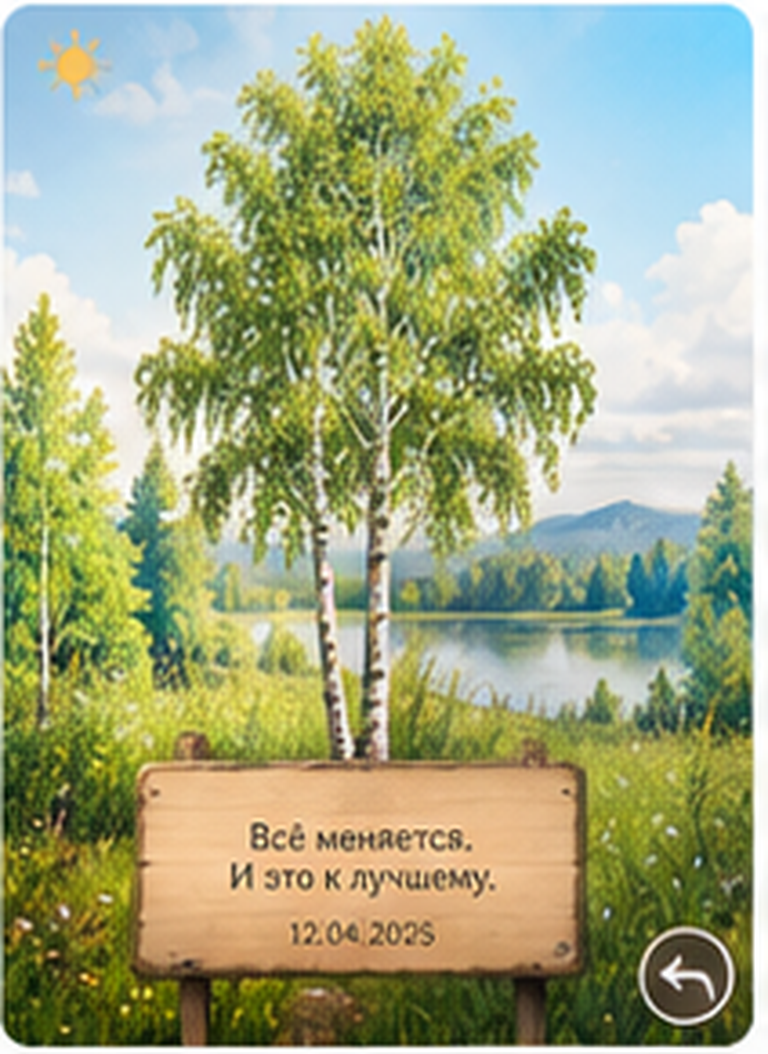
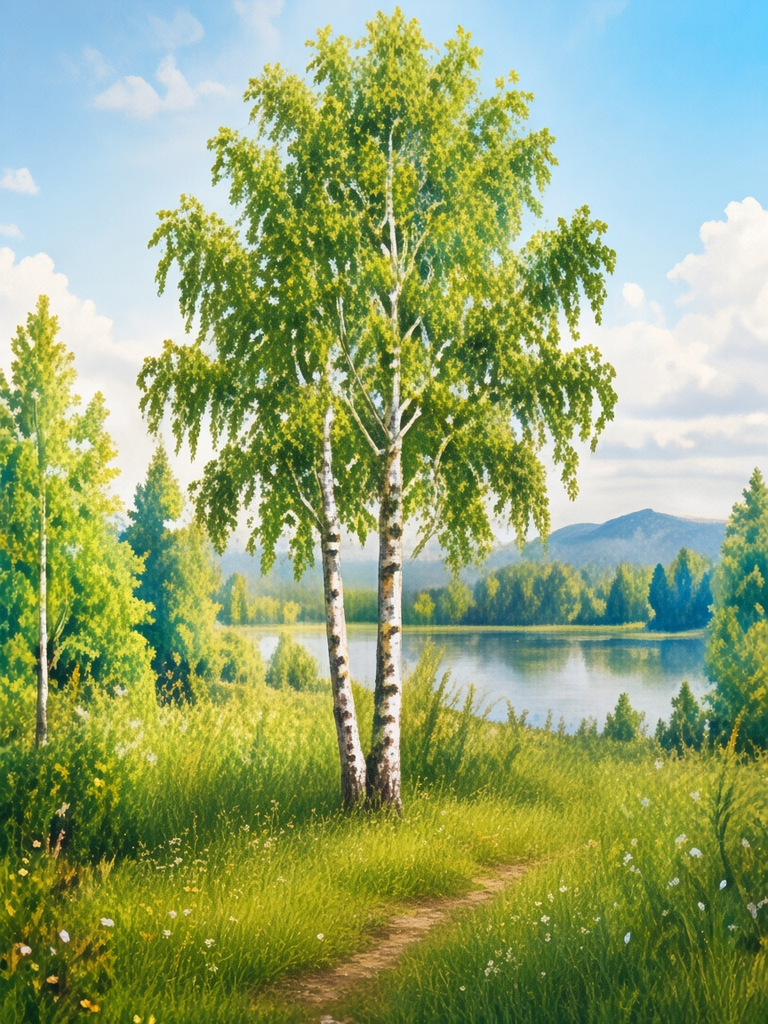
fix: replace cropped cards with full-bleed tree scenes
24 day/night landscapes without plaque, crop borders, or a second moon. Entry text sits under the image.

diff --git a/src/components/forest/TreeGroveScene.tsx b/src/components/forest/TreeGroveScene.tsx
@@ -3,14 +3,14 @@ import { LayoutChangeEvent, Pressable, StyleSheet, View, useWindowDimensions } f
 import { Ionicons } from "@expo/vector-icons";
 import { SafeAreaView, useSafeAreaInsets } from "react-native-safe-area-context";
 import { FadeView, ScaleView } from "../animation";
-import { WoodenPlaque } from "./WoodenPlaque";
+import { Text } from "../ui";
 import { ForestSceneBackdrop } from "./ForestSceneBackdrop";
 import { CatalogItem } from "../../services/forest/catalog";
-import { fitStaticBackground } from "../../services/forest/backgroundFit";
 import { getGroveEdges, getGroveScene } from "../../constants/groveScenes";
 import { getTreeDefinition } from "../../constants/treeDefinitions";
 import { resolveSceneMode } from "../../constants/sceneMode";
 import { SceneMode } from "../../types";
+import { parseDateKey } from "../../utils/date";
 import { useTheme } from "../../theme";
 
 type Props = {
@@ -19,9 +19,12 @@ type Props = {
   sceneMode?: SceneMode | null;
 };
 
+function formatDetailDate(dateKey: string, time: string): string {
+  return `${parseDateKey(dateKey).toLocaleDateString("ru-RU")}  ${time}`;
+}
+
 /**
- * Большая сцена с референса. Меняется только текст на дощечке.
- * Назад справа снизу — настоящая кнопка.
+ * Большая сцена без дощечки. Текст записи — мягкая подпись снизу.
  */
 export function TreeGroveScene({ item, onClose, sceneMode: sceneModeOverride }: Props) {
   const theme = useTheme();
@@ -36,11 +39,9 @@ export function TreeGroveScene({ item, onClose, sceneMode: sceneModeOverride }: 
   const tree = getTreeDefinition(item.tree.species);
   const sceneSource = getGroveScene(item.tree.species, mode);
   const edges = getGroveEdges(item.tree.species, mode);
-  const sceneFrame = fitStaticBackground(1000, 1000 / tree.sceneAspect, width, height);
-  const plaqueWidth = Math.round(sceneFrame.width * 0.68);
-  const plaqueHeight = Math.round(sceneFrame.height * 0.2);
-  const plaqueLeft = Math.round(sceneFrame.left + (sceneFrame.width - plaqueWidth) / 2);
-  const plaqueTop = Math.round(sceneFrame.top + sceneFrame.height * 0.705);
+  const note = item.entry.note.trim() || item.entry.smallWin?.trim() || "Без текста";
+  const ink = isNight ? "#F3EDE2" : "#2C2A24";
+  const muted = isNight ? "#D4CBB8" : "#5A564C";
 
   useEffect(() => {
     setShown(true);
@@ -65,22 +66,40 @@ export function TreeGroveScene({ item, onClose, sceneMode: sceneModeOverride }: 
         height={height}
         aspect={tree.sceneAspect}
       />
+      <View
+        pointerEvents="none"
+        style={[
+          styles.fade,
+          { backgroundColor: isNight ? "rgba(8,12,20,0.42)" : "rgba(245,240,230,0.28)" },
+        ]}
+      />
 
       <SafeAreaView edges={["top", "left", "right"]} style={styles.fill} pointerEvents="box-none">
         <FadeView visible={shown} duration="base" style={styles.fill} pointerEvents="box-none">
-          <ScaleView visible={shown} from={0.98} duration="base" style={styles.fill} pointerEvents="box-none">
-            <View
-              pointerEvents="none"
+          <ScaleView visible={shown} from={0.98} duration="base" style={styles.stage} pointerEvents="box-none">
+            <Text
+              face="serif"
               style={{
-                position: "absolute",
-                left: plaqueLeft,
-                top: plaqueTop,
-                width: plaqueWidth,
-                height: plaqueHeight,
+                color: ink,
+                fontSize: theme.typography.sizes.subtitle,
+                lineHeight: 26,
+                textAlign: "center",
               }}
+              maxFontSizeMultiplier={theme.typography.scaleLimits.content}
             >
-              <WoodenPlaque item={item} sceneMode={mode} maxHeight={plaqueHeight} width={plaqueWidth} />
-            </View>
+              {note}
+            </Text>
+            <Text
+              style={{
+                marginTop: 8,
+                color: muted,
+                fontSize: theme.typography.sizes.caption,
+                textAlign: "center",
+              }}
+              maxFontSizeMultiplier={theme.typography.scaleLimits.ui}
+            >
+              {formatDetailDate(item.entry.date, item.entry.time)}
+            </Text>
           </ScaleView>
         </FadeView>
       </SafeAreaView>
@@ -108,6 +127,19 @@ export function TreeGroveScene({ item, onClose, sceneMode: sceneModeOverride }: 
 
 const styles = StyleSheet.create({
   fill: { flex: 1 },
+  fade: {
+    position: "absolute",
+    left: 0,
+    right: 0,
+    bottom: 0,
+    height: "28%",
+  },
+  stage: {
+    flex: 1,
+    justifyContent: "flex-end",
+    paddingHorizontal: 28,
+    paddingBottom: 96,
+  },
   backBtn: {
     position: "absolute",
     zIndex: 30,

diff --git a/src/components/forest/TreeCatalogCard.tsx b/src/components/forest/TreeCatalogCard.tsx
@@ -1,11 +1,12 @@
 import React from "react";
 import { Pressable, StyleSheet, View, useWindowDimensions } from "react-native";
-import { WoodenPlaque } from "./WoodenPlaque";
+import { Text } from "../ui";
 import { ForestSceneBackdrop } from "./ForestSceneBackdrop";
 import { CatalogItem } from "../../services/forest/catalog";
 import { getGroveEdges, getGroveScene } from "../../constants/groveScenes";
 import { getTreeDefinition } from "../../constants/treeDefinitions";
 import { SceneMode } from "../../types";
+import { parseDateKey } from "../../utils/date";
 import { useTheme } from "../../theme";
 
 type Props = {
@@ -14,8 +15,12 @@ type Props = {
   onPress: () => void;
 };
 
+function cardDate(dateKey: string): string {
+  return parseDateKey(dateKey).toLocaleDateString("ru-RU");
+}
+
 /**
- * Карточка = картина с референса. Меняется только текст на дощечке.
+ * Карточка — полнокадровая сцена. Текст записи под картиной, без дощечки.
  */
 export function TreeCatalogCard({ item, sceneMode, onPress }: Props) {
   const theme = useTheme();
@@ -24,12 +29,10 @@ export function TreeCatalogCard({ item, sceneMode, onPress }: Props) {
   const scene = getGroveScene(item.tree.species, sceneMode);
   const edges = getGroveEdges(item.tree.species, sceneMode);
   const cardWidth = Math.max(220, window.width - theme.spacing("lg") * 2);
-  const cardHeight = Math.min(
+  const imageHeight = Math.min(
     Math.round(cardWidth / tree.sceneAspect),
-    Math.round(window.height * 0.64),
+    Math.round(window.height * 0.58),
   );
-  const plaqueWidth = Math.round(cardWidth * 0.68);
-  const plaqueHeight = Math.round(cardHeight * 0.2);
   const note = item.entry.note.trim() || item.entry.smallWin?.trim() || "Без текста";
 
   return (
@@ -37,59 +40,60 @@ export function TreeCatalogCard({ item, sceneMode, onPress }: Props) {
       accessibilityRole="button"
       accessibilityLabel={`${tree.name}. ${note}`}
       onPress={onPress}
-      style={[
-        styles.card,
-        {
-          width: cardWidth,
-          height: cardHeight,
-          alignSelf: "center",
-          backgroundColor: edges.sky,
-        },
-      ]}
+      style={styles.wrap}
     >
-      <ForestSceneBackdrop
-        source={scene}
-        edges={edges}
-        width={cardWidth}
-        height={cardHeight}
-        aspect={tree.sceneAspect}
-      />
       <View
         style={[
-          styles.plaqueDock,
+          styles.scene,
           {
-            bottom: cardHeight * 0.095,
+            width: cardWidth,
+            height: imageHeight,
+            backgroundColor: edges.sky,
           },
         ]}
-        pointerEvents="none"
       >
-        <WoodenPlaque
-          item={item}
-          sceneMode={sceneMode}
-          compact
-          width={plaqueWidth}
-          maxHeight={plaqueHeight}
+        <ForestSceneBackdrop
+          source={scene}
+          edges={edges}
+          width={cardWidth}
+          height={imageHeight}
+          aspect={tree.sceneAspect}
         />
       </View>
+      <Text
+        face="serif"
+        numberOfLines={2}
+        style={{
+          marginTop: 10,
+          color: theme.colors.textPrimary,
+          fontSize: theme.typography.sizes.body,
+          lineHeight: 22,
+        }}
+        maxFontSizeMultiplier={theme.typography.scaleLimits.content}
+      >
+        {note}
+      </Text>
+      <Text
+        style={{
+          marginTop: 4,
+          marginBottom: 22,
+          color: theme.colors.textSecondary,
+          fontSize: theme.typography.sizes.caption,
+        }}
+        maxFontSizeMultiplier={theme.typography.scaleLimits.ui}
+      >
+        {cardDate(item.entry.date)}
+      </Text>
     </Pressable>
   );
 }
 
 const styles = StyleSheet.create({
-  card: {
-    borderRadius: 18,
-    overflow: "hidden",
-    marginBottom: 22,
-    shadowColor: "#2A1A0C",
-    shadowOpacity: 0.24,
-    shadowRadius: 16,
-    shadowOffset: { width: 0, height: 8 },
-    elevation: 7,
+  wrap: {
+    width: "100%",
   },
-  plaqueDock: {
-    position: "absolute",
-    left: 0,
-    right: 0,
-    alignItems: "center",
+  scene: {
+    borderRadius: 16,
+    overflow: "hidden",
   },
 });

diff --git a/src/constants/treeDefinitions.ts b/src/constants/treeDefinitions.ts
@@ -1,10 +1,11 @@
 import { ImageSourcePropType } from "react-native";
 import { SceneMode, TreeSpecies } from "../types";
 
+export const TREE_SCENE_ASPECT = 768 / 1024;
+
 export type TreeDefinition = {
   id: TreeSpecies;
   name: string;
-  /** width / height нарезанной сцены из референса */
   sceneAspect: number;
   dayImage: ImageSourcePropType;
   nightImage: ImageSourcePropType;
@@ -18,84 +19,84 @@ export const TREE_DEFINITIONS: TreeDefinition[] = [
   {
     id: "pine",
     name: "Сосна",
-    sceneAspect: 768 / 1064,
+    sceneAspect: TREE_SCENE_ASPECT,
     dayImage: require("../../assets/trees/scenes/pine/day.png"),
     nightImage: require("../../assets/trees/scenes/pine/night.png"),
   },
   {
     id: "birch",
     name: "Берёза",
-    sceneAspect: 768 / 1054,
+    sceneAspect: TREE_SCENE_ASPECT,
     dayImage: require("../../assets/trees/scenes/birch/day.png"),
     nightImage: require("../../assets/trees/scenes/birch/night.png"),
   },
   {
     id: "oak",
     name: "Дуб",
-    sceneAspect: 768 / 1069,
+    sceneAspect: TREE_SCENE_ASPECT,
     dayImage: require("../../assets/trees/scenes/oak/day.png"),
     nightImage: require("../../assets/trees/scenes/oak/night.png"),
   },
   {
     id: "maple",
     name: "Клён",
-    sceneAspect: 768 / 1035,
+    sceneAspect: TREE_SCENE_ASPECT,
     dayImage: require("../../assets/trees/scenes/maple/day.png"),
     nightImage: require("../../assets/trees/scenes/maple/night.png"),
   },
   {
     id: "willow",
     name: "Ива",
-    sceneAspect: 768 / 1025,
+    sceneAspect: TREE_SCENE_ASPECT,
     dayImage: require("../../assets/trees/scenes/willow/day.png"),
     nightImage: require("../../assets/trees/scenes/willow/night.png"),
   },
   {
     id: "ash",
     name: "Ясень",
-    sceneAspect: 768 / 1040,
+    sceneAspect: TREE_SCENE_ASPECT,
     dayImage: require("../../assets/trees/scenes/ash/day.png"),
     nightImage: require("../../assets/trees/scenes/ash/night.png"),
   },
   {
     id: "rowan",
     name: "Рябина",
-    sceneAspect: 768 / 933,
+    sceneAspect: TREE_SCENE_ASPECT,
     dayImage: require("../../assets/trees/scenes/rowan/day.png"),
     nightImage: require("../../assets/trees/scenes/rowan/night.png"),
   },
   {
     id: "poplar",
     name: "Тополь",
-    sceneAspect: 768 / 924,
+    sceneAspect: TREE_SCENE_ASPECT,
     dayImage: require("../../assets/trees/scenes/poplar/day.png"),
     nightImage: require("../../assets/trees/scenes/poplar/night.png"),
   },
   {
     id: "spruce",
     name: "Ель",
-    sceneAspect: 768 / 937,
+    sceneAspect: TREE_SCENE_ASPECT,
     dayImage: require("../../assets/trees/scenes/spruce/day.png"),
     nightImage: require("../../assets/trees/scenes/spruce/night.png"),
   },
   {
     id: "linden",
     name: "Липа",
-    sceneAspect: 768 / 805,
+    sceneAspect: TREE_SCENE_ASPECT,
     dayImage: require("../../assets/trees/scenes/linden/day.png"),
     nightImage: require("../../assets/trees/scenes/linden/night.png"),
   },
   {
     id: "apple",
     name: "Яблоня",
-    sceneAspect: 768 / 797,
+    sceneAspect: TREE_SCENE_ASPECT,
     dayImage: require("../../assets/trees/scenes/apple/day.png"),
     nightImage: require("../../assets/trees/scenes/apple/night.png"),
   },
   {
     id: "beech",
     name: "Бук",
-    sceneAspect: 768 / 808,
+    sceneAspect: TREE_SCENE_ASPECT,
     dayImage: require("../../assets/trees/scenes/beech/day.png"),
     nightImage: require("../../assets/trees/scenes/beech/night.png"),
   },

diff --git a/src/constants/groveScenes.ts b/src/constants/groveScenes.ts
@@ -15,6 +15,6 @@ export function getGroveScene(species: string, mode: SceneMode | boolean): Image
 /** Поля вокруг contain-сцены — цвет «бумаги» референса, не обрезка картины. */
 export function getGroveEdges(_species: string, mode: SceneMode | boolean): MeadowEdges {
   return resolveMode(mode) === "night"
-    ? { sky: "#070B16", ground: "#070B16" }
-    : { sky: "#F4F2EE", ground: "#F4F2EE" };
+    ? { sky: "#0B1424", ground: "#0B1424" }
+    : { sky: "#C5D8EA", ground: "#C5D8EA" };
 }
